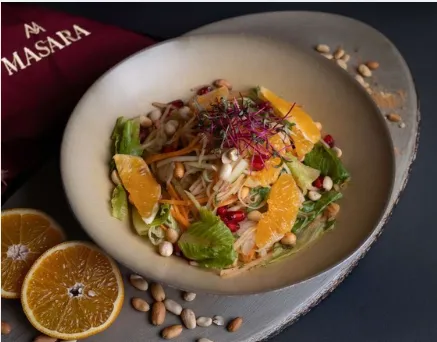
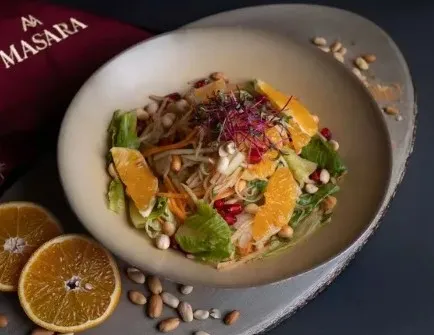
Optimize images to WebP, fix SEO metadata, and update About page UI

diff --git a/src/app/about/page.tsx b/src/app/about/page.tsx
@@ -18,23 +18,23 @@ export default function About() {
     if (!containerRef.current) return;
 
     const ctx = gsap.context(() => {
-      
+
       const heroTl = gsap.timeline();
-      
-      heroTl.fromTo(".hero-top-frame", 
+
+      heroTl.fromTo(".hero-top-frame",
         { opacity: 0, y: -20 }, { opacity: 1, y: 0, duration: 1, ease: "power2.out" }, 0.2
       );
 
-      heroTl.fromTo(".hero-reveal", 
+      heroTl.fromTo(".hero-reveal",
         { y: 40, opacity: 0 }, { y: 0, opacity: 1, duration: 1.2, stagger: 0.15, ease: "power3.out" }, 0.4
       );
 
-      heroTl.fromTo(".gold-line-x", 
+      heroTl.fromTo(".gold-line-x",
         { scaleX: 0 }, { scaleX: 1, duration: 1.5, ease: "power3.inOut" }, 0.7
       );
 
-      heroTl.fromTo(".hero-img-wrap", 
-        { clipPath: "inset(100% 0 0 0)", y: 30 }, 
+      heroTl.fromTo(".hero-img-wrap",
+        { clipPath: "inset(100% 0 0 0)", y: 30 },
         { clipPath: "inset(0% 0 0 0)", y: 0, duration: 1.5, stagger: 0.2, ease: "power4.out" }, 1
       );
 
@@ -42,7 +42,7 @@ export default function About() {
       sections.forEach((sec: any) => {
         gsap.fromTo(sec.querySelectorAll(".fade-up"),
           { opacity: 0, y: 30 },
-          { 
+          {
             opacity: 1, y: 0, duration: 1.2, stagger: 0.15, ease: "power3.out",
             scrollTrigger: { trigger: sec, start: "top 80%" }
           }
@@ -55,7 +55,7 @@ export default function About() {
         ease: "none",
         scrollTrigger: { trigger: ".parallax-container", start: "top bottom", end: "bottom top", scrub: true }
       });
-      
+
       // NEW: Cinematic Parallax for the Philosophy background image
       gsap.to(".bg-parallax", {
         y: "20%",
@@ -76,19 +76,19 @@ export default function About() {
 
   return (
     <div ref={containerRef} className="w-full bg-[#F5E9D5] text-[#3D081A] overflow-hidden selection:bg-[#3D081A] selection:text-[#F5E9D5]">
-      
+
       {/* ---------------- SECTION 1: RICH VISUAL HERO ---------------- */}
       <section className="relative w-full min-h-[100svh] flex flex-col justify-between px-6 md:px-12 pt-8">
-        
+
         <div className="hero-top-frame w-full max-w-7xl mx-auto flex justify-between items-center border-b border-[#D4AF37]/30 pb-4 mb-12">
-           <span className="text-[9px] md:text-[10px] uppercase tracking-[0.3em] font-sans text-[#3D081A]/60">
-             Masara Bangalore
-           </span>
-           <span className="text-[9px] md:text-[10px] uppercase tracking-[0.3em] font-sans text-[#3D081A]/60">
-             Est. 2024
-           </span>
+          <span className="text-[9px] md:text-[10px] uppercase tracking-[0.3em] font-sans text-[#3D081A]/60">
+            Masara Bangalore
+          </span>
+          <span className="text-[9px] md:text-[10px] uppercase tracking-[0.3em] font-sans text-[#3D081A]/60">
+            Est. 2024
+          </span>
         </div>
-        
+
         <div className="w-full max-w-7xl mx-auto flex flex-col items-center text-center mt-4 md:mt-10 mb-12">
           <div className="flex items-center gap-4 mb-6 hero-reveal">
             <div className="w-2 h-2 bg-[#D4AF37] rotate-45 gold-diamond" />
@@ -97,7 +97,7 @@ export default function About() {
             </span>
             <div className="w-2 h-2 bg-[#D4AF37] rotate-45 gold-diamond" />
           </div>
-          
+
           <h1 className="font-serif text-[12.5vw] md:text-[7.5vw] leading-[0.9] tracking-tighter mb-8 hero-reveal">
             Rooted in tradition.<br />
             <span className="italic font-light text-[#3D081A]/80">Crafted for tomorrow.</span>
@@ -111,29 +111,29 @@ export default function About() {
             <Image src="/images/restaurant/02.webp" alt="Ambience" fill className="object-cover border-[2px] border-[#3D081A]" priority />
           </div>
           <div className="hero-img-wrap relative w-full h-full z-10">
-            <Image src="/images/food/food-03.webp" alt="Culinary Artistry" fill className="object-cover border-[2px] border-[#D4AF37]" priority />
+            <Image src="/images/food/food-28.webp" alt="Culinary Artistry" fill className="object-cover border-[2px] border-[#D4AF37]" priority />
           </div>
           <div className="hero-img-wrap hidden md:block relative w-full h-[60%]">
-            <Image src="/images/restaurant/5.webp" alt="Details" fill className="object-cover border-[2px] border-[#3D081A]" priority />
+            <Image src="/images/restaurant/03.webp" alt="Details" fill className="object-cover border-[2px] border-[#3D081A]" priority />
           </div>
         </div>
       </section>
 
       {/* ---------------- SECTION 2: THE CHEF (AUTHENTIC STORY) ---------------- */}
       <section className="story-section parallax-container relative w-full py-24 md:py-32 px-6 md:px-12 bg-[#3D081A] text-[#F5E9D5] border-y border-[#D4AF37]/30">
-        
+
         <div className="w-full max-w-6xl mx-auto flex flex-col lg:flex-row items-center gap-16 lg:gap-24">
-          
+
           <div className="w-full lg:w-1/2 flex flex-col order-2 lg:order-1">
             <div className="flex items-center gap-4 mb-6 fade-up">
               <span className="text-[10px] uppercase tracking-[0.3em] font-sans text-[#D4AF37] font-semibold">The Mastermind</span>
               <div className="w-16 h-[1px] bg-[#D4AF37]/60" />
             </div>
-            
+
             <h2 className="font-serif text-4xl md:text-5xl lg:text-6xl leading-[1.1] tracking-tight mb-8 fade-up text-[#D4AF37]">
               Mohammed Ashiq
             </h2>
-            
+
             <p className="font-sans text-sm md:text-base font-light leading-relaxed text-[#F5E9D5]/80 mb-6 fade-up">
               The journey began with an uncompromising love for coastal flavours. From opening the beloved Kulki Hub, to capturing the nation's attention and standing victorious on MasterChef India Season 8, his path has been defined by instinct and grit.
             </p>
@@ -144,48 +144,48 @@ export default function About() {
 
           <div className="w-full lg:w-1/2 relative order-1 lg:order-2 flex justify-center lg:justify-end">
             <div className="relative w-[85%] md:w-[75%] aspect-[4/5] fade-up">
-              <Image src="/images/chef/chef.webp" alt="Mohammed Ashiq" fill className="object-cover border-[3px] border-[#D4AF37]/20" />
-              
+              <Image src="/images/chef/chef-1.webp" alt="Mohammed Ashiq" fill className="object-cover border-[3px] border-[#D4AF37]/20" />
+
               <div className="absolute -top-2 -left-2 w-6 h-6 border-t-[2px] border-l-[2px] border-[#D4AF37]" />
               <div className="absolute -bottom-2 -right-2 w-6 h-6 border-b-[2px] border-r-[2px] border-[#D4AF37]" />
-              
+
               <div className="absolute -bottom-8 -left-6 md:-left-12 w-[50%] aspect-square border-[2px] border-[#3D081A] shadow-2xl parallax-fast z-10 hidden md:block">
-                <Image src="/images/food/food-06.webp" alt="Kitchen Detail" fill className="object-cover" />
+                <Image src="/images/food/food-02.webp" alt="Kitchen Detail" fill className="object-cover" />
               </div>
             </div>
           </div>
-          
+
         </div>
       </section>
 
       {/* ---------------- SECTION 3: THE PHILOSOPHY (FLOATING CARD DESIGN) ---------------- */}
       <section className="story-section bg-parallax-container relative w-full h-[85vh] md:h-[100svh] min-h-[600px] flex items-center justify-center overflow-hidden px-4 md:px-12">
-        
+
         {/* Massive Parallax Background */}
         <div className="absolute inset-0 z-0 overflow-hidden">
-          <Image 
+          <Image
             src="/images/restaurant/01.webp" // You can swap this to a wide atmosphere/ambience shot if preferred
-            alt="Masara Experience" 
-            fill 
+            alt="Masara Experience"
+            fill
             className="object-cover scale-[1.15] bg-parallax"
           />
           {/* Dark gradient overlay so the light card pops */}
-          <div className="absolute inset-0 bg-[#3D081A]/40" /> 
+          <div className="absolute inset-0 bg-[#3D081A]/40" />
         </div>
 
         {/* The Floating Cinematic Card */}
         <div className="relative z-10 w-full max-w-5xl bg-[#F5E9D5]/95 backdrop-blur-sm border border-[#D4AF37]/20 p-10 md:p-16 lg:p-24 shadow-[0_30px_60px_rgba(0,0,0,0.4)] fade-up flex flex-col items-center text-center rounded-sm">
-          
+
           <h2 className="font-serif text-5xl md:text-6xl lg:text-7xl leading-[0.9] tracking-tighter mb-8 text-[#3D081A]">
             More than <span className="italic font-light text-[#D4AF37]">a meal.</span>
           </h2>
-          
+
           <h3 className="font-sans text-sm md:text-base font-bold uppercase tracking-[0.2em] text-[#3D081A] mb-8">
             "We do not just serve food; we craft memories."
           </h3>
-          
+
           <div className="w-16 h-[1px] bg-[#D4AF37] mb-8" />
-          
+
           <p className="font-sans text-sm md:text-lg font-light leading-relaxed text-[#3D081A]/80 max-w-3xl">
             Masara is an approach to hospitality that transcends the plate. Located in the heart of Bangalore, it is the obsessive attention to detail, the rhythm of the room, and the perfect balance of spices working in absolute harmony.
           </p>
@@ -196,7 +196,7 @@ export default function About() {
       {/* ---------------- SECTION 4: THE CLOSING CTA ---------------- */}
       <section className="story-section relative w-full pt-20 pb-32 flex flex-col items-center justify-center text-center px-6">
         <div className="w-[1px] h-20 bg-[#D4AF37] mb-10 fade-up" />
-        
+
         <h3 className="font-serif text-4xl md:text-5xl lg:text-6xl tracking-tight text-[#3D081A] mb-10 fade-up">
           The story continues <span className="italic font-light text-[#D4AF37]">at your table.</span>
         </h3>
@@ -207,7 +207,7 @@ export default function About() {
           className="fade-up group relative inline-flex items-center gap-4 px-10 py-4 overflow-hidden border-[1.5px] border-[#3D081A] text-[#3D081A] hover:border-[#D4AF37]"
         >
           <div className="absolute inset-0 bg-[#3D081A] translate-y-[101%] group-hover:translate-y-0 transition-transform duration-500 ease-[cubic-bezier(0.16,1,0.3,1)] z-0" />
-          
+
           <span className="relative z-10 text-[10px] uppercase tracking-[0.2em] font-sans font-bold group-hover:text-[#F5E9D5] transition-colors duration-500">
             Reserve Your Experience
           </span>

diff --git a/src/app/gallery/page.tsx b/src/app/gallery/page.tsx
@@ -13,18 +13,28 @@ if (typeof window !== "undefined") {
 
 // 1. Array containing both Food and Ambience Images
 const allSources = [
-  "/images/restaurant/01.webp",
+  "/images/restaurant/rest-1.webp",
   "/images/food/food-01.webp",
-  "/images/restaurant/02.webp",
+  "/images/restaurant/rest-2.webp",
   "/images/food/food-02.webp",
-  "/images/restaurant/03.webp",
+  "/images/restaurant/rest-3.webp",
   "/images/food/food-03.webp",
-  "/images/restaurant/04.webp",
+  "/images/restaurant/rest-4.webp",
   "/images/food/food-04.webp",
-  "/images/restaurant/5.webp",
+  "/images/restaurant/rest-5.webp",
   "/images/food/food-05.webp",
+  "/images/restaurant/rest-6.webp",
+  "/images/food/food-06.webp",
+  "/images/restaurant/rest-7.webp",
+  "/images/food/food-07.webp",
+  "/images/restaurant/rest-8.webp",
+  "/images/food/food-08.webp",
+  "/images/restaurant/01.webp",
+  "/images/restaurant/02.webp",
+  "/images/restaurant/03.webp",
+  "/images/restaurant/04.webp",
   "/images/restaurant/06.webp",
-  ...Array.from({ length: 22 }, (_, i) => `/images/food/food-${(i + 6).toString().padStart(2, '0')}.webp`),
+  ...Array.from({ length: 19 }, (_, i) => `/images/food/food-${(i + 9).toString().padStart(2, '0')}.webp`),
 ];
 
 // 2. Assign dynamic aspects for the Pinterest look

diff --git a/src/components/ReservationTicket.tsx b/src/components/ReservationTicket.tsx
@@ -26,11 +26,32 @@ export function ReservationTicket() {
     if (hasSeenTicket) {
       setShowBadge(true);
     } else {
-      const timer = setTimeout(() => {
+      let triggered = false;
+      
+      const triggerPopup = () => {
+        if (triggered) return;
+        triggered = true;
         setShowTicket(true);
         sessionStorage.setItem("masara_ticket_shown", "true");
-      }, 10000); 
-      return () => clearTimeout(timer);
+        window.removeEventListener("scroll", handleScroll);
+      };
+      
+      const handleScroll = () => {
+        // Trigger if the user has scrolled past the hero section (approx 800px)
+        if (window.scrollY > 800) {
+          triggerPopup();
+        }
+      };
+
+      window.addEventListener("scroll", handleScroll, { passive: true });
+      
+      // Fallback: trigger after 45 seconds if they haven't scrolled much
+      const timer = setTimeout(triggerPopup, 45000); 
+      
+      return () => {
+        clearTimeout(timer);
+        window.removeEventListener("scroll", handleScroll);
+      };
     }
   }, []);
 

diff --git a/src/app/admin/actions.ts b/src/app/admin/actions.ts
@@ -2,6 +2,7 @@
 
 import { createClient } from "@/utils/supabase/server";
 import { redirect } from "next/navigation";
+import { headers } from "next/headers";
 
 export async function login(formData: FormData) {
   const email = formData.get("email") as string;
@@ -33,10 +34,14 @@ export async function resetPassword(formData: FormData) {
   }
   
   const supabase = await createClient();
+  const headersList = await headers();
+  const host = headersList.get("host") || "localhost:3000";
+  const protocol = host.includes("localhost") ? "http" : "https";
+  const siteUrl = process.env.NEXT_PUBLIC_SITE_URL || `${protocol}://${host}`;
   
   const { error } = await supabase.auth.resetPasswordForEmail(email, {
     // Redirect to the auth callback with the next url parameter
-    redirectTo: `${process.env.NEXT_PUBLIC_SITE_URL || "http://localhost:3000"}/auth/callback?next=/admin/update-password`,
+    redirectTo: `${siteUrl}/auth/callback?next=/admin/update-password`,
   });
   
   if (error) {

diff --git a/src/app/layout.tsx b/src/app/layout.tsx
@@ -27,6 +27,7 @@ export const viewport = {
 };
 
 export const metadata: Metadata = {
+  metadataBase: new URL(process.env.NEXT_PUBLIC_SITE_URL || "https://masarafinedine.com"),
   title: {
     default: "Masara Fine Dine | Bangalore",
     template: "%s | Masara Fine Dine"
